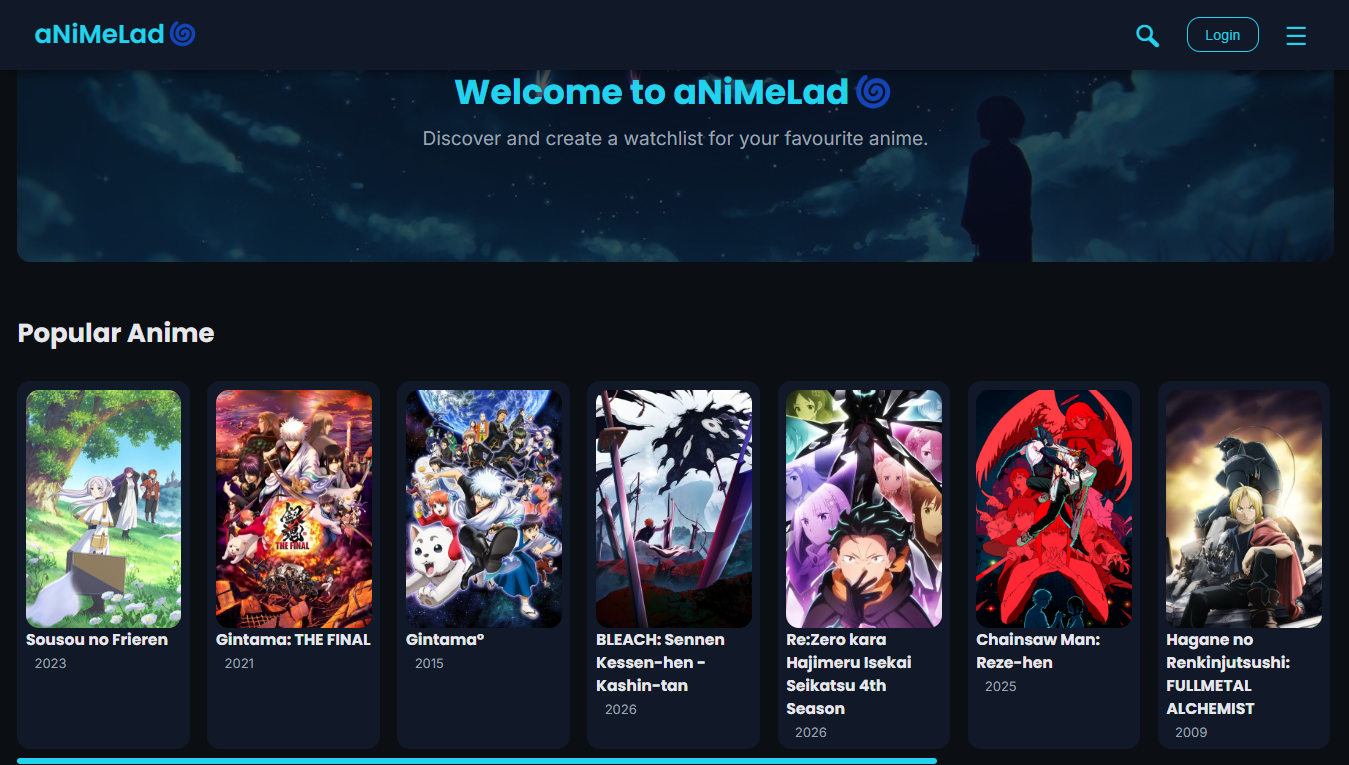
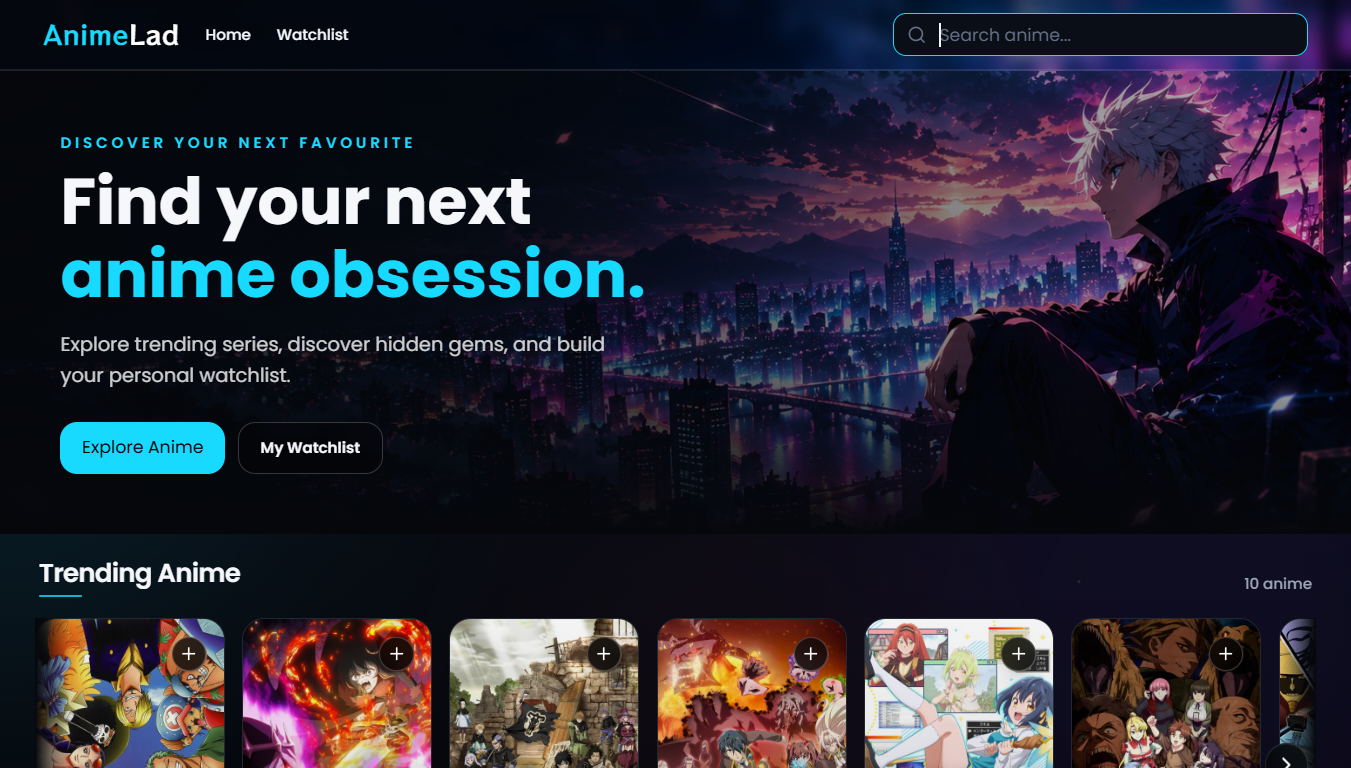
updated animelad and the my next project

diff --git a/src/data/projects.ts b/src/data/projects.ts
@@ -56,11 +56,12 @@ export const projects: Project[] = [
 
     image: animeladImage,
     status: ["evolving"],
-    currentVersion: "V2",
+    currentVersion: "V3",
 
     technologies: [
       "React",
-      "JavaScript",
+      "Javascript",
+      "TypeScript",
       "GraphQL",
       "AniList API",
       "Node.js",
@@ -68,6 +69,7 @@ export const projects: Project[] = [
       "MongoDB",
       "Mongoose",
       "JWT",
+      "Tanstack",
     ],
 
     versions: [
@@ -81,6 +83,11 @@ export const projects: Project[] = [
         description:
           "Reworked into a full-stack application with an Express backend, API proxying, authentication, and MongoDB.",
       },
+      {
+        label: "V3",
+        description:
+          "Improved UI, improved features, migrated the whole project to TypeScript and added a watchlist feature using local storage to save user preferences."
+      }
     ],
 
     whatILearned: [
@@ -92,35 +99,28 @@ export const projects: Project[] = [
       "CORS",
       "Service-based backend structure",
       "MongoDB",
-      "Authentication",
+      "Migration from javascript to TypeScript",
+      "Tanstack Query",
     ],
 
     futureImprovements: [
-      "Reconnect the V2 frontend and backend",
-      "Improve the UI and overall UX",
-      "Refine the authentication experience",
-      "Complete and improve the watchlist experience",
+      "Further performance optimization",
+      "Additional anime discovery features",
+      "Improved watchlist management",
+      "Expanded testing and accessibility coverage"
     ],
 
     links: [
       {
-        label: "V1 GitHub",
-        href: "https://github.com/ladosky1/Anime-Finder-App",
-      },
-      {
-        label: "V1 Live",
-        href: "https://animelad.netlify.app/",
-      },
-      {
-        label: "V2 GitHub",
+        label: "V3 GitHub",
         href: "https://github.com/ladosky1/AnimeSearchApp",
       },
       {
-        label: "V2 Frontend",
+        label: "V3 Frontend",
         href: "https://animelad-v2.vercel.app/",
       },
       {
-        label: "V2 Backend",
+        label: "V3 Backend",
         href: "https://animelad.onrender.com",
       },
     ],
@@ -134,6 +134,10 @@ export const projects: Project[] = [
         title: "AnimeLad development",
         href: "https://x.com/ladosky__/status/2007921756124917955",
       },
+      {
+        title: "AnimeLad V3 development",
+        href: "https://x.com/ladosky__/status/2111204822175424744?s=20",
+      }
     ],
   },
 

diff --git a/src/data/buildersLab.ts b/src/data/buildersLab.ts
@@ -9,16 +9,18 @@ export type BuilderLabItem = {
 
 export const buildersLab: BuilderLabItem[] = [
   {
-    projectId: "AnimeLad",
+    projectId: "JobApplyTracker",
     currentVersion: "V2",
     status: ["shipped", "evolving"],
     currentFocus:
-      "Improving the full anime search and better watchlist experience.",
+      "Improving the architecture and adding meaningful features to the application.",
     next: [
-      "Improve mobile usability",
-      "Implement better search and filtering",
-      "Discard backend auth system and use local storage for watchlist",
-      "Improve the overall UI and UX of the application",
+      "Token expiration handling",
+      "In-app & email job notifications",
+      "Email verification",
+      "Freeelance job board integration",
+      "Interview reminders",
+      "Analytics dashboard",
     ],
     nextMilestone: "V3",
   },

diff --git a/src/data/buildlog.ts b/src/data/buildlog.ts
@@ -43,11 +43,11 @@ export const buildLog: BuildLogEntry[] = [
   {
     id: "animelad-fullstack",
     projectId: "animelad",
-    date: "March 2026",
-    title: "Started the full-stack evolution of AnimeLad",
+    date: "16 OCTOBER 2026",
+    title: "Improved UI, TypeScript, Localstorage Watchlist",
     description:
-      "Took the original frontend AnimeLad project and rebuilt it with a backend, API layer, authentication, and MongoDB.",
+      "Fully reworked the UI, added new features, migrated the whole project to TypeScript and added a watchlist feature using local storage to save user preferences.",
     xUrl:
-      "https://x.com/ladosky__/status/2032413707800637662",
+      "https://x.com/ladosky__/status/2111204822175424744?s=20",
   },
 ];

diff --git a/src/sections/Hero.tsx b/src/sections/Hero.tsx
@@ -158,7 +158,7 @@ function Hero() {
                     Current work
                   </p>
                   <p className="mt-0.5 text-xs font-semibold text-white">
-                    AnimeLad
+                    JobApplyTracker
                   </p>
                 </div>
               </div>

diff --git a/src/sections/BuildersLab.tsx b/src/sections/BuildersLab.tsx
@@ -110,7 +110,7 @@ function BuildIllustration() {
           </p>
 
           <p className="mt-1 font-serif text-xl font-semibold text-white md:text-2xl">
-            AnimeLad
+            JobApplyTracker
           </p>
         </div>
 
